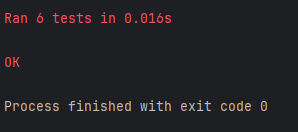
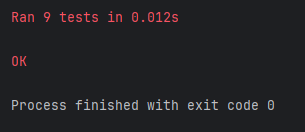
Added correct screenshots on the unit test to README

Changed region(s): [[0.0, 0.7576, 0.906, 0.8485], [0.0, 0.0909, 0.604, 0.1818], [0.0, 0.4242, 0.0906, 0.5152]]

diff --git a/test_habit_tracker.py b/test_habit_tracker.py
@@ -11,23 +11,23 @@ from analytics import (
 )
 
 class TestHabitManager(unittest.TestCase):
-    def test_add_habit(selfself):
+    def test_add_habit(self):
         manager = HabitManager()
         manager.add_habit("Drink Water", "daily")
 
         self.assertEqual(len(manager.habits),1)
         self.assertEqual(manager.habits[0].name, "Drink Water")
-        self.assertEqual(manager.habits[0].periodicity, "Daily")
+        self.assertEqual(manager.habits[0].periodicity, "daily")
 
     def test_edit_habit(self):
         manager = HabitManager()
         manager.add_habit("Drink Water", "daily")
 
-        result = manager.edit_habit(0,"Excercise", "weekly")
+        result = manager.edit_habit(0,"Exercise", "weekly")
 
         self.assertTrue(result)
-        self.assertEqual(manager.habits[0].name, "Excercise")
-        self.assertEqual(manager.habits[0].periodicity, "Weekly")
+        self.assertEqual(manager.habits[0].name, "Exercise")
+        self.assertEqual(manager.habits[0].periodicity, "weekly")
 
     def test_delete_habit(self):
         manager = HabitManager()
@@ -96,3 +96,4 @@ class TestAnalytics(unittest.TestCase):
 
 if __name__ == "__main__":
     unittest.main()
+
